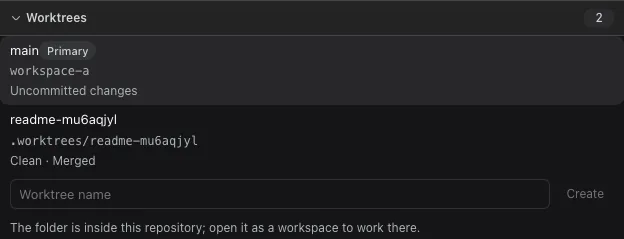
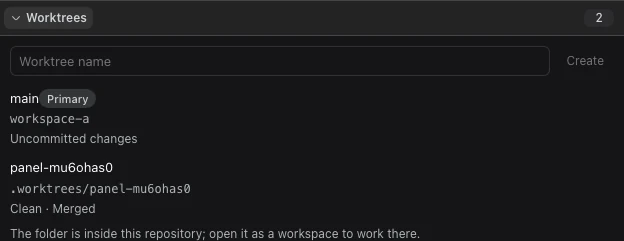
feat(git): move the worktree create row under the section band
The name field and Create button sat at the foot of the Worktrees section,
so creating a worktree meant scrolling past every checkout. They are now the
first row under the section band, above the list and the empty state; the
slug-issue line moves with the field. A .formRowTop modifier carries the body
inset above the row, while .formRow keeps its footer padding for History's
Load more. The jsdom panel suite pins the order; the README screenshot is
re-captured from the real shell.

diff --git a/packages/dsh-next-git/src/client/GitPanel.tsx b/packages/dsh-next-git/src/client/GitPanel.tsx
@@ -1211,6 +1211,39 @@ function WorktreesSection(props: {
       collapsed={props.collapsed}
       onToggle={props.onToggle}
     >
+      {/* The create row owns the seat under the band: it is the section's one
+          write, and it stays visible however long the list grows. */}
+      <div className={`${classes.formRow} ${classes.formRowTop}`}>
+        <input
+          id="dsh-git-worktree-name"
+          className={classes.input}
+          placeholder={t('worktrees.namePlaceholder')}
+          aria-label={t('worktrees.namePlaceholder')}
+          value={name}
+          data-dsh-git="worktree-name"
+          onChange={(event) => {
+            setName(event.target.value)
+            setIssue(null)
+          }}
+        />
+        <Button
+          size="sm"
+          variant="ghost"
+          disabled={busy || name.trim() === ''}
+          onClick={() => {
+            const verdict = validateSlug(normalizeSlug(name))
+            if (!verdict.ok) {
+              setIssue(t(`issue.slug.${verdict.issue}` as MessageKey))
+              return
+            }
+            setIssue(null)
+            void store.worktreeAdd(verdict.slug).then(() => setName(''))
+          }}
+        >
+          {t('worktrees.create')}
+        </Button>
+      </div>
+      {issue === null ? null : <div className={classes.issue}>{issue}</div>}
       {state.worktrees.length === 0 ? (
         <div className={classes.empty}>
           <span className={classes.emptyTitle}>{t('worktrees.empty')}</span>
@@ -1284,37 +1317,6 @@ function WorktreesSection(props: {
           </div>
         </div>
       ))}
-      <div className={classes.formRow}>
-        <input
-          id="dsh-git-worktree-name"
-          className={classes.input}
-          placeholder={t('worktrees.namePlaceholder')}
-          aria-label={t('worktrees.namePlaceholder')}
-          value={name}
-          data-dsh-git="worktree-name"
-          onChange={(event) => {
-            setName(event.target.value)
-            setIssue(null)
-          }}
-        />
-        <Button
-          size="sm"
-          variant="ghost"
-          disabled={busy || name.trim() === ''}
-          onClick={() => {
-            const verdict = validateSlug(normalizeSlug(name))
-            if (!verdict.ok) {
-              setIssue(t(`issue.slug.${verdict.issue}` as MessageKey))
-              return
-            }
-            setIssue(null)
-            void store.worktreeAdd(verdict.slug).then(() => setName(''))
-          }}
-        >
-          {t('worktrees.create')}
-        </Button>
-      </div>
-      {issue === null ? null : <div className={classes.issue}>{issue}</div>}
       <div className={classes.caption}>{t('worktrees.openHint')}</div>
     </Section>
   )

diff --git a/packages/dsh-next-git/tests/client-panel.spec.tsx b/packages/dsh-next-git/tests/client-panel.spec.tsx
@@ -585,6 +585,18 @@ describe('git panel body', () => {
     expect(double.calls.some((call) => call.method === 'worktreeAdd')).toBe(false)
   })
 
+  it('puts the worktree create row directly under the section band', async () => {
+    await renderPanel({ getHistory: { commits: [], lanes: [], hasMore: false } })
+    const body = container.querySelector<HTMLElement>('[data-dsh-git="section-body"][data-section="worktrees"]')!
+    const field = marker('worktree-name')!
+    const rows = all('worktree')
+    // The create row is the section body's first child: creating a worktree
+    // never means scrolling past the list to find the field.
+    expect(body.firstElementChild?.contains(field)).toBe(true)
+    expect(rows.length).toBeGreaterThan(0)
+    expect(field.compareDocumentPosition(rows[0]!) & Node.DOCUMENT_POSITION_FOLLOWING).not.toBe(0)
+  })
+
   it('shows the degraded state with its fix instead of an empty panel', async () => {
     await renderPanel({
       getState: new GitApiError(

diff --git a/packages/dsh-next-git/src/client/panel.module.css b/packages/dsh-next-git/src/client/panel.module.css
@@ -696,6 +696,13 @@
   padding: 4px 10px 8px 10px;
 }
 
+/* The Worktrees create row sits directly under the section band, so it takes
+   the body's inset above it; .formRow keeps its footer spacing for History's
+   Load more, where it sits under the list. */
+.formRowTop {
+  padding-top: 10px;
+}
+
 /* The message box carries the generate action in its own corner, the way an
    SCM view does, so drafting never costs a second row. */
 .messageWrap {

diff --git a/.agents/notes/implemented/2026-09-18-git-worktree-create-row-under-band.md b/.agents/notes/implemented/2026-09-18-git-worktree-create-row-under-band.md
@@ -1,0 +1,46 @@
+# Git panel: the worktree create row sits under the section band
+
+- date: 2026-09-18
+- status: implemented
+- scope: packages/dsh-next-git, tests/e2e
+
+The Worktrees section's create row (name field plus Create) moved from the foot
+of the section to the first thing under the `Worktrees` band, above the list
+and the empty state. Creating a worktree no longer means scrolling past every
+checkout: the row is the section's one write and stays reachable as the list
+grows, which the old footer placement did not guarantee. The slug-issue line
+travels with the field.
+
+## What changed
+
+- `WorktreesSection` renders the row as the section body's first child; a new
+  `.formRowTop` modifier carries the body inset above it. `.formRow` keeps
+  its footer padding for History's Load more, its only other caller.
+- `tests/client-panel.spec.tsx` pins the order: the field is inside the
+  section body's first child and precedes every worktree row.
+- `packages/dsh-next-git/media/worktrees.webp` was re-captured from the real
+  shell through the mount marker.
+
+## Test defect found on the way
+
+The `git` mount marker's grid check measured the status letter of
+`src/git-panel/store.ts` — the file the marker had just committed, so by then
+it was no longer in the change list. The locator auto-waited for a row that no
+longer existed and the smoke hung until the 360s test timeout. It now anchors
+on the modified `src/app.ts` row, which stays listed, and asserts that row is
+visible before measuring. The assertion landed in 903796a after the README
+screenshots were captured, so it had never run green; fixing it is what let the
+marker reach the Worktrees capture.
+
+## Verification
+
+- `pnpm --filter @dsh-next/dsh-next-git run typecheck` clean; the package's
+  vitest suites (385 tests) pass, including the new order test.
+- The isolated `dsh-next-git` mount marker passes against a real DSH
+  0.1.6-alpha.2 shell: stage, commit, worktree create, the grid insets and the
+  accordion checks, with host truth read back from disk.
+- The full smoke is red in this environment for an unrelated, pre-existing
+  reason: `Skills folder-opener supports keyboard, empty-app and error states`
+  expects a `VS Code` folder-opener entry this machine does not have (already
+  recorded in 2026-09-18-dsh-next-git-source-control.md). It fails before the
+  marker loop reaches `dsh-next-git`, which is why the marker was run alone.
